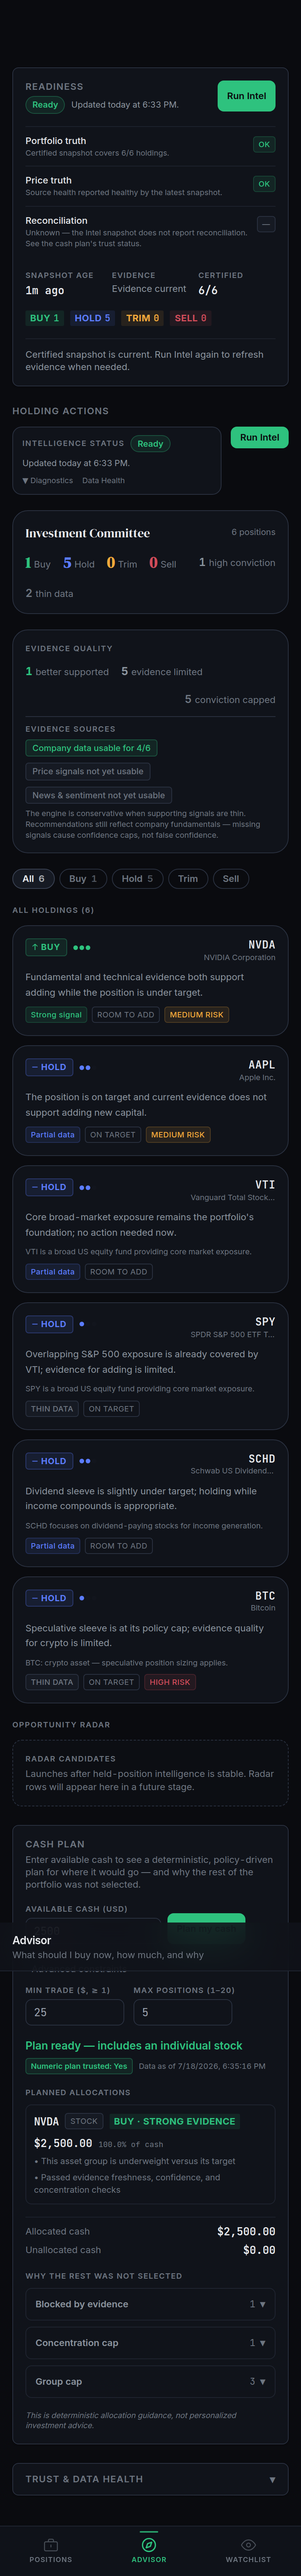
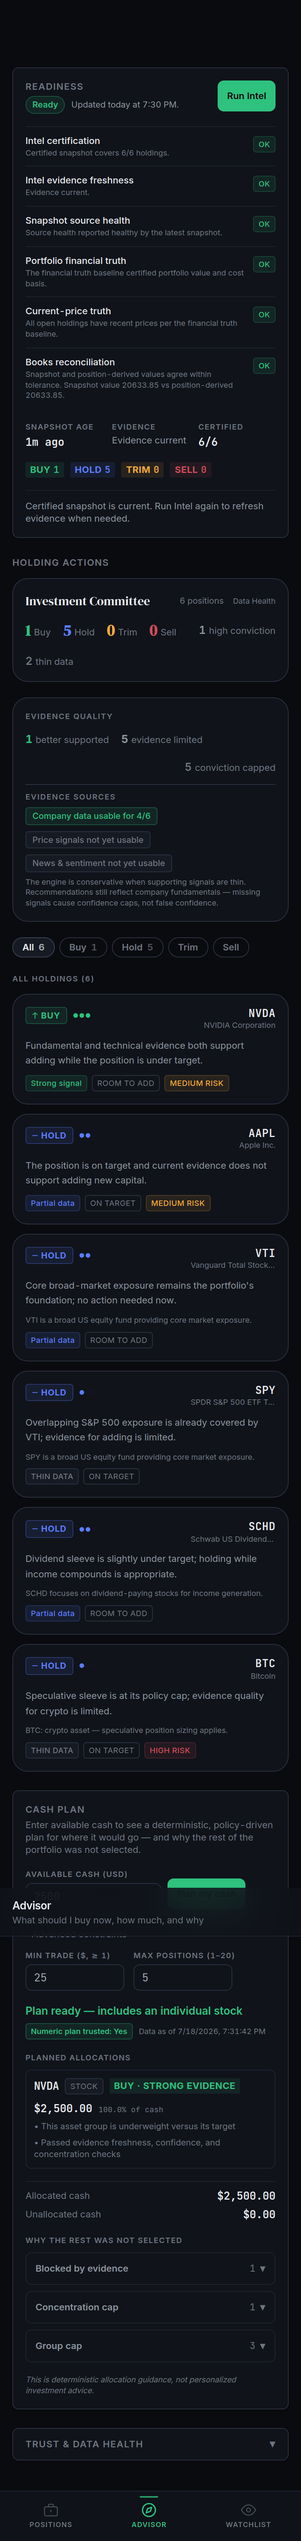
Semantic patch: pill clarity, refreshed proof, correction record
- Readiness pill renders as 'Intel Ready' so certified Intel state can never
  read as whole-system readiness while financial-truth dimensions are
  degraded or unknown (+1 guard test; 575 frontend tests total).
- All affected screenshots re-shot through the harness against the patched
  production build; new advisor-truth-degraded-desktop.png captures the
  six-dimension truth vocabulary with honest degraded states, real
  disagreeing values, and the repair action; readiness-proxy baseline and
  degraded JSON captures appended to RESPONSES.md as labeled local contract
  proof.
- REFACTOR_REPORT: same-PR semantic correction record (single controller,
  placeholder removal, truth vocabulary, no-rationale exclusion, runtime
  artifact) with final outputs. Vercel preview deploys Ready per the bot
  but is unreachable from this sandbox (egress 403) — documented explicitly.

Claude-Session: https://claude.ai/code/session_01PibjZaxLy1ZAscGU9mQm2t

diff --git a/v2/frontend/src/lib/advisor-readiness.test.ts b/v2/frontend/src/lib/advisor-readiness.test.ts
@@ -684,3 +684,15 @@ describe("helpers", () => {
     expect(evidenceFreshnessLabel(null)).toBeNull();
   });
 });
+
+// The readiness pill describes Intel state, never whole-system readiness —
+// the panel renders the "Ready" pill as "Intel Ready" (see
+// AdvisorReadinessPanel), keeping financial-truth dimensions separate.
+it('panel renders the Ready pill as "Intel Ready" so it cannot read as system-wide readiness', () => {
+  const fs = require("fs");
+  const src = fs.readFileSync(
+    __dirname + "/../components/advisor/AdvisorReadinessPanel.tsx",
+    "utf8"
+  );
+  expect(src).toContain('"Intel Ready"');
+});

diff --git a/v2/frontend/src/components/advisor/AdvisorReadinessPanel.tsx b/v2/frontend/src/components/advisor/AdvisorReadinessPanel.tsx
@@ -79,7 +79,7 @@ export function AdvisorReadinessPanel({
                 PILL_TONE_CLASS[model.statusPillLabel] ?? PILL_TONE_CLASS["Needs Research"],
               )}
             >
-              {model.statusPillLabel}
+              {model.statusPillLabel === "Ready" ? "Intel Ready" : model.statusPillLabel}
             </span>
             <span className="text-[11px] text-text-secondary">{model.statusLine}</span>
           </div>

diff --git a/REFACTOR_REPORT.md b/REFACTOR_REPORT.md
@@ -611,3 +611,53 @@ outermost boundaries — documented per capture in `docs/ai/proof/consolidation/
 - Screenshots re-shot after the final fix batch through the same harness; all review copy
   fixes verified rendering live (see advisor-cash-plan-degraded-desktop.png for the
   plain-English blocker + technical-detail expander + "No trusted allocation totals" state).
+
+## Same-PR semantic correction (record)
+
+Five blockers patched in place on PR #473 (no architecture change, no backend change, no
+allocation/policy/worker/SQL change):
+
+1. **Single Run Intel controller.** `IntelV3Cockpit` (second snapshot query, second run
+   mutation, own run button, own lastRunResult, 15s polling lifecycle, status band) deleted;
+   holding actions now render via presentation-only `components/advisor/IntelV3HoldingsPanel`
+   fed by the page's single shared snapshot query. AdvisorPage owns the one query, one
+   mutation, bounded run state, and snapshot invalidation. Preserved: Investment Committee
+   summary, action filters, evidence summary, cards, What Changed, drawer, Data Health.
+   Grep-proof: `useRunIntelV3` appears only in hooks.ts (definition), advisor/page.tsx, tests.
+2. **Placeholder removal.** Opportunity Radar section, ComingLaterPanel component, and the
+   three ComingLater placeholders inside DataHealthDrawer removed; zero
+   "Coming Later"/"future stage"/placeholder panels across the three views (source-contract
+   test enforces).
+3. **Truth vocabulary separation.** New server-only `GET /api/advisor/readiness` route handler
+   (paycheck proxy pattern; secret never client-side — cert-secret safety test allowlists
+   exactly the two route handlers) over the existing read-only cert-gated
+   financial-truth-baseline diagnostic; returns a small mapped contract. Snapshot-derived
+   fields no longer labeled portfolio/price truth (renamed Intel certification / Snapshot
+   source health); Portfolio financial truth, Current-price truth, Books reconciliation are
+   endpoint-fed with honest Unknown; six distinct dimensions incl. Cash-plan trust
+   (numeric_plan_trusted remains authoritative after a plan request;
+   recommendations_trusted stays false). Trust panel healthy message requires the full
+   conjunction; unknown is never healthy; reconciliation failure surfaces the real repair
+   action with raw operator text behind technical detail. The readiness pill renders as
+   "Intel Ready" so Intel state can never read as whole-system readiness. useAdvisorTruth:
+   5-min staleTime, retry off, no polling.
+4. **No-rationale-no-render.** Canonical `extractHoldingRationale` (why_text →
+   asset_intelligence_context.why_this_action → action_text, trimmed) +
+   `partitionRenderableCards`; unexplained actions never render as cards and are reported as
+   "Not shown: N holding(s) — no explanation was available for their current action." with a
+   collapsible ticker list; filter counts count renderable cards only.
+5. **Runtime artifact.** Committed `v2/frontend/fakeauth.pid` removed; `*.pid` ignored; no PID
+   files, logs, tokens, ports, or fixture state tracked.
+
+**Validation after patch:** backend `8290 passed, 0 failed` (untouched); frontend
+`18 suites / 575 tests passed, 0 failed`; `tsc --noEmit` 0 errors; `next build` green
+(21/21 pages incl. `/api/advisor/readiness`). Affected screenshots re-shot through the same
+harness against the patched production build: one Run Intel control, no Radar/Coming-Later,
+honest truth labels ("Intel Ready" pill; new `advisor-truth-degraded-desktop.png` shows
+degraded Portfolio financial truth / stale Current-price truth / Books reconciliation with
+real disagreeing values 21,129.06 vs 20,633.85 and the repair action). Readiness proxy
+captures (baseline + degraded) appended to RESPONSES.md as labeled local contract proof.
+**Vercel preview:** deployment for the patch commit reports Ready (Vercel bot), but this
+sandbox's egress proxy blocks vercel.app (403 CONNECT), so in-environment preview HTTP
+verification was not possible; the readiness proxy consumes pre-existing production
+diagnostics, so no backend deploy is needed for preview parity.

diff --git a/docs/ai/proof/consolidation/RESPONSES.md b/docs/ai/proof/consolidation/RESPONSES.md
@@ -657,3 +657,28 @@ the real `/login` page. See the proof report for the per-file description.
 - `/dashboard/paycheck-plan` → `/dashboard/advisor?section=cash-plan` (cash-plan section focused/scrolled)
 - Duplicate watchlist add shows the inline 409 message
   "VTI already has a price below entry. Edit that entry instead of adding a duplicate."
+
+---
+
+## Same-PR semantic patch — Advisor readiness proxy captures (local contract proof)
+
+Captured through the frontend server route `GET /api/advisor/readiness` (server-only cert
+secret; maps the cert-gated financial-truth-baseline diagnostic). Same harness provenance as
+above: real backend + real Next production build; fixture Supabase client.
+
+### baseline scenario (all truth dimensions healthy)
+```json
+{"portfolio_truth":"certified","price_truth":"ok","reconciliation":"pass","snapshot_value":20633.85,"position_derived_value":20633.85,"snapshot_stale":false,"next_required_repair":"No immediate fix required — financial truth is certified","as_of":"2026-07-18T19:31:47.013269+00:00"}
+```
+
+### degraded scenario (honest degraded truth with disagreeing values and repair action)
+```json
+{"portfolio_truth":"degraded","price_truth":"stale","reconciliation":"degraded","snapshot_value":21129.06,"position_derived_value":20633.85,"snapshot_stale":true,"next_required_repair":"Trigger a portfolio snapshot refresh to reduce snapshot age below 24h","as_of":"2026-07-18T19:31:59.766107+00:00"}
+```
+
+Vercel preview note: the preview deployment for this branch reports Ready (Vercel bot comment on
+PR #473), but this sandbox's egress proxy returns 403 CONNECT for vercel.app, so in-environment
+HTTP verification of the preview was not possible — preview checks are limited to the Vercel
+build/deploy status until verified from an unrestricted network. The readiness proxy targets
+pre-existing production diagnostics, so no backend deploy is required for it to function in
+preview once verified.
